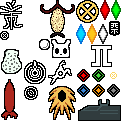
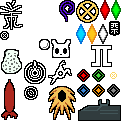
ripple trees

Changed region(s): [[0.3223, 0.0, 0.6198, 0.3223]]

diff --git a/StaticData.cs b/StaticData.cs
@@ -37,7 +37,7 @@ namespace Cornifer
             "FairyParticleSettings","DayNightSettings","EnergySwirl","LightningMachine","SteamPipe","WallSteamer",
             "Vine","VultureMask","SnowSource","DeathFallFocus","CellDistortion","LocalBlizzard","NeuronSpawner",
             "HangingPearls","Lantern","ExitSymbolAncientShelter","BlinkingFlower", "SpinningTopSpot", "WarpPoint",
-			"Pomegranate", "PlacedBoxWorm", "RippleSpawnEgg", "WeaverSpot", "TerrainHandle", "LocalTerrain"
+			"Pomegranate", "PlacedBoxWorm", "RippleSpawnEgg", "WeaverSpot", "TerrainHandle", "LocalTerrain", "RippleTree"
 		};
 		public static readonly Dictionary<string, string[]> TiedSandboxIDs = new() {
 			["CicadaA"] = new[] { "CicadaB" },
@@ -65,7 +65,7 @@ namespace Cornifer
         // Slugcat -> { DefaultRegion -> StoryRegion }
         // Saint -> { DS -> UG }
         // TODO: equivalences.txt Region.GetProperRegionAcronym
-        public static Dictionary<string, Dictionary<string, string>> SlugcatRegionReplacements = new()
+        public static readonly Dictionary<string, Dictionary<string, string>> SlugcatRegionReplacements = new()
         {
             [""] = new()
             {

diff --git a/SpriteAtlases.cs b/SpriteAtlases.cs
@@ -173,7 +173,8 @@ namespace Cornifer
 			{ "WeaverSpot",		  (new(48, 86,  28, 34), new(255, 255, 255, 255)) },
 			{ "RippleSpawnEgg",   (new(23, 85,  16, 16), new(0.404f, 0.353f, 0.984f, 0.75f)) },
 
-			{ "PearlPuter",		  (new(78, 99,	43, 22), new(255, 255, 255, 255)) }
+			{ "PearlPuter",		  (new(78, 99,	43, 22), new(255, 255, 255, 255)) },
+			{ "RippleTree",       (new(59, 0,   16, 22), new(255, 255, 255, 255)) }
 		};
 
         static readonly Dictionary<string, (Rectangle Frame, Color Color)> MiscSpriteFrames = new()
